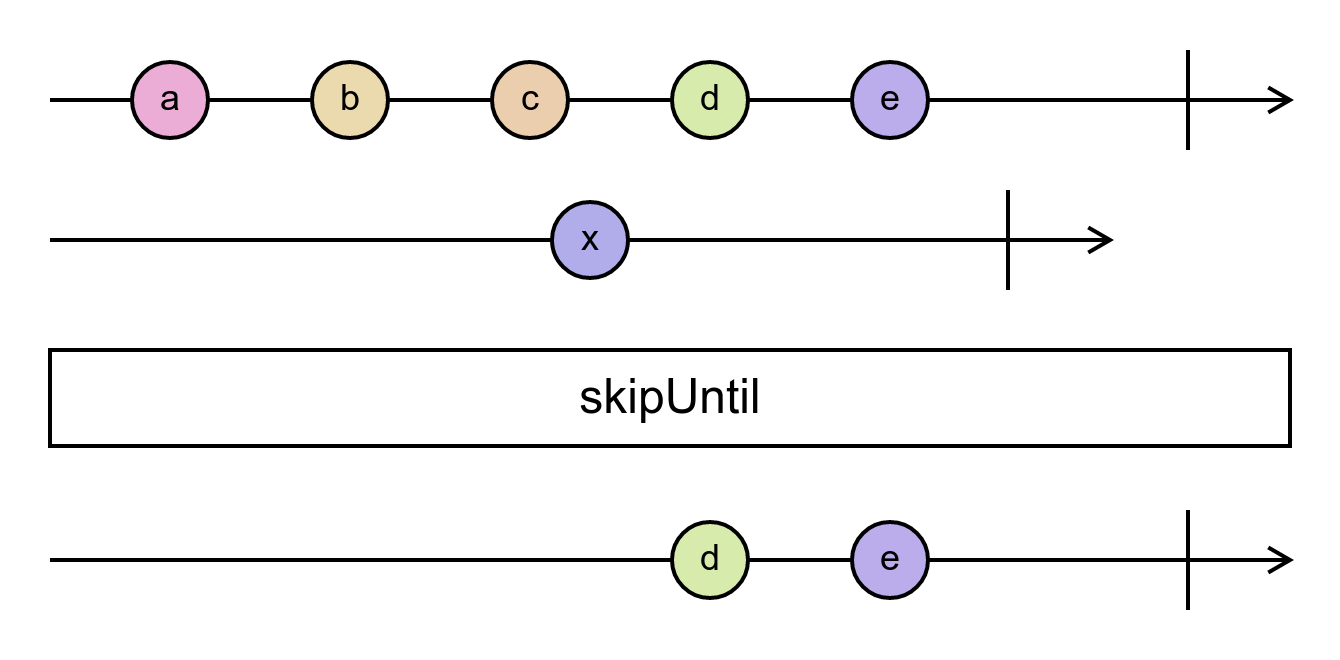
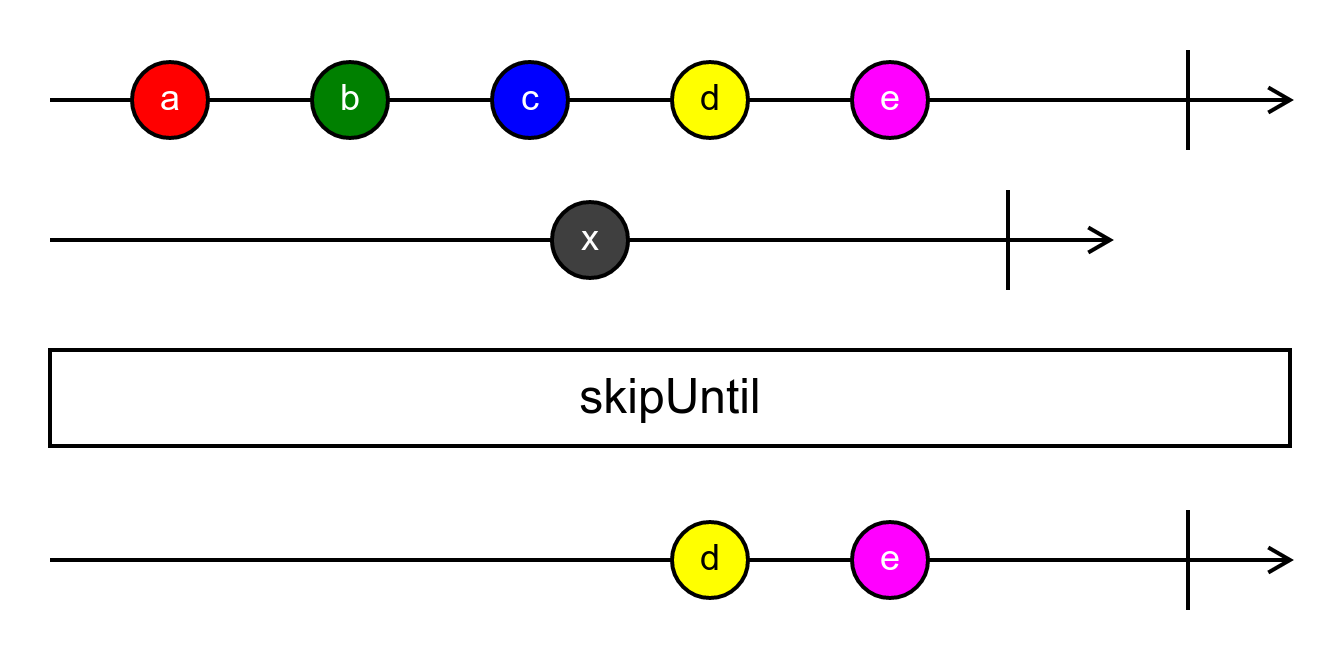
Support notification-level styling

diff --git a/packages/swirly-parser/src/parsers/stream.ts b/packages/swirly-parser/src/parsers/stream.ts
@@ -1,4 +1,12 @@
-import { parseMarbles } from '@swirly/parser-rxjs'
+import { parseMarbles, TestMessage } from '@swirly/parser-rxjs'
+import {
+  CompletionMessageSpecification,
+  ErrorMessageSpecification,
+  MessageSpecification,
+  ScalarNextMessageSpecification,
+  ScalarNextMessageStyles,
+  StreamNextMessageSpecification
+} from '@swirly/types'
 
 import { createStreamSpecification } from '../spec/stream'
 import { kIsGhost } from '../symbols'
@@ -49,12 +57,60 @@ const buildLocalValues = (
   return localValues
 }
 
+const testMessageToMessageSpecification = ({
+  frame,
+  notification
+}: TestMessage): MessageSpecification => {
+  const { kind, value } = notification as any
+  switch (true) {
+    case kind === 'C': // CompleteNotification
+      return {
+        frame,
+        notification: { kind }
+      } as CompletionMessageSpecification
+    case kind === 'E': // ErrorNotification
+      return { frame, notification: { kind } } as ErrorMessageSpecification
+    case Array.isArray(value): // NextNotification, stream
+      return {
+        frame,
+        notification: {
+          kind: 'N',
+          value: createStreamSpecification(value),
+          isGhost: !!value[kIsGhost]
+        }
+      } as StreamNextMessageSpecification
+    default: // NextNotification, scalar
+      return {
+        frame,
+        notification: {
+          kind: 'N',
+          value: value != null ? String(value) : ''
+        }
+      } as ScalarNextMessageSpecification
+  }
+}
+
+const testMessagesToMessageSpecifications = (
+  testMessages: TestMessage[],
+  frame: number,
+  messageStyles: Record<string, ScalarNextMessageStyles>
+): MessageSpecification[] => {
+  const messageSpecs = testMessages.map(testMessageToMessageSpecification)
+  for (const message of messageSpecs) {
+    message.frame -= frame
+    if (message.notification.kind === 'N') {
+      message.styles =
+        messageStyles[
+          (message as ScalarNextMessageSpecification).notification.value
+        ]
+    }
+  }
+  return messageSpecs
+}
+
 const match = () => true
 
-const run = (
-  lines: readonly string[],
-  { content, allValues }: ParserContext
-) => {
+const run = (lines: readonly string[], ctx: ParserContext) => {
   const [nameAndMarbles, ...configLines] = lines
 
   const [name, marbles] = parseNameAndMarbles(nameAndMarbles)
@@ -67,19 +123,33 @@ const run = (
   const localValues = buildLocalValues(
     marbles,
     config.values,
-    allValues,
+    ctx.allValues,
     ghostNames
   )
-  const messages = parseMarbles(marbles, localValues)
+
+  const testMessages = parseMarbles(marbles, localValues)
+  // RxJS TestScheduler.frameTimeFactor is 10, so undo that
+  for (const message of testMessages) {
+    message.frame = message.frame / 10
+  }
 
   const match = reLeadingWhitespace.exec(marbles)
   const frame = match != null ? match[0].length : 0
 
   if (name != null) {
-    allValues[name] = messages
+    ctx.allValues[name] = testMessages
   } else {
-    const spec = createStreamSpecification(messages, config.title, frame)
-    content.push(spec)
+    const messageSpecs = testMessagesToMessageSpecifications(
+      testMessages,
+      frame,
+      ctx.messageStyles
+    )
+    const streamSpec = createStreamSpecification(
+      messageSpecs,
+      config.title,
+      frame
+    )
+    ctx.content.push(streamSpec)
   }
 }
 

diff --git a/packages/swirly-parser/src/spec/stream.ts b/packages/swirly-parser/src/spec/stream.ts
@@ -1,15 +1,4 @@
-import { TestMessage } from '@swirly/parser-rxjs'
-import {
-  CompletionMessageSpecification,
-  ErrorMessageSpecification,
-  MessageSpecification,
-  ScalarNextMessageSpecification,
-  StreamNextMessageSpecification,
-  StreamSpecification
-} from '@swirly/types'
-
-import { SCALE } from '../constants'
-import { kIsGhost } from '../symbols'
+import { MessageSpecification, StreamSpecification } from '@swirly/types'
 
 const getDuration = (messages: readonly MessageSpecification[]): number => {
   let maxFrame = 0
@@ -30,54 +19,14 @@ const getDuration = (messages: readonly MessageSpecification[]): number => {
   return maxFrame
 }
 
-const testMessageToMessageSpecification = ({
-  frame: unscaledFrame,
-  notification
-}: TestMessage): MessageSpecification => {
-  const frame = unscaledFrame * SCALE
-  const { kind, value } = notification as any
-  switch (true) {
-    case kind === 'C': // CompleteNotification
-      return {
-        frame,
-        notification: { kind }
-      } as CompletionMessageSpecification
-    case kind === 'E': // ErrorNotification
-      return { frame, notification: { kind } } as ErrorMessageSpecification
-    case Array.isArray(value): // NextNotification, stream
-      return {
-        frame,
-        notification: {
-          kind: 'N',
-          value: createStreamSpecification(value),
-          isGhost: !!value[kIsGhost]
-        }
-      } as StreamNextMessageSpecification
-    default: // NextNotification, scalar
-      return {
-        frame,
-        notification: {
-          kind: 'N',
-          value: value != null ? String(value) : ''
-        }
-      } as ScalarNextMessageSpecification
-  }
-}
-
 export const createStreamSpecification = (
-  messagesIn: readonly TestMessage[],
+  messages: MessageSpecification[],
   title: string | null = null,
   frame: number = 0
-): StreamSpecification => {
-  const messagesOut = messagesIn.map(testMessageToMessageSpecification)
-  for (const message of messagesOut) {
-    message.frame -= frame
-  }
-  return {
-    kind: 'S',
-    title,
-    frame,
-    duration: getDuration(messagesOut),
-    messages: messagesOut
-  }
-}
+): StreamSpecification => ({
+  kind: 'S',
+  title,
+  frame,
+  duration: getDuration(messages),
+  messages
+})

diff --git a/packages/swirly-parser/src/parsers/operator.ts b/packages/swirly-parser/src/parsers/operator.ts
@@ -1,12 +1,11 @@
 import { OperatorTitleSegment } from '@swirly/types'
 
-import { OPERATOR_PREFIX } from '../constants'
 import { createOperatorSpecification } from '../spec/operator'
 import { Parser, ParserContext } from '../types'
 
 const reInnerStream = /`(.+?)`/g
 
-const match = (line: string): boolean => line.startsWith(OPERATOR_PREFIX)
+const match = (line: string): boolean => line.startsWith('>')
 
 const parseTitle = (text: string): OperatorTitleSegment[] => {
   const segments: OperatorTitleSegment[] = []
@@ -32,11 +31,11 @@ const parseTitle = (text: string): OperatorTitleSegment[] => {
   return segments
 }
 
-const run = (lines: readonly string[], { content }: ParserContext) => {
-  const titleStr = lines[0].substring(OPERATOR_PREFIX.length).trim()
+const run = (lines: readonly string[], ctx: ParserContext) => {
+  const titleStr = lines[0].substring(1).trim()
   const titleSegments = parseTitle(titleStr)
   const spec = createOperatorSpecification(titleSegments)
-  content.push(spec)
+  ctx.content.push(spec)
 }
 
 export const operatorParser: Parser = {

diff --git a/packages/swirly-parser/src/index.ts b/packages/swirly-parser/src/index.ts
@@ -11,7 +11,8 @@ import { byBlock } from './util/by-block'
 const parseMarbleDiagramSpecification = (str: string): DiagramSpecification => {
   const ctx: ParserContext = {
     content: [],
-    styles: {},
+    diagramStyles: {},
+    messageStyles: {},
     allValues: {}
   }
 
@@ -20,7 +21,7 @@ const parseMarbleDiagramSpecification = (str: string): DiagramSpecification => {
     parser.run(lines, ctx)
   }
 
-  return createDiagramSpecification(ctx.content, ctx.styles)
+  return createDiagramSpecification(ctx.content, ctx.diagramStyles)
 }
 
 export {

diff --git a/packages/swirly-parser/src/parsers/message-styles.ts b/packages/swirly-parser/src/parsers/message-styles.ts
@@ -1,0 +1,17 @@
+import { Parser, ParserContext } from '../types'
+import { parseConfig } from './config'
+
+const reHeader = /^\[styles\.(.)\]$/
+
+const match = (line: string): boolean => reHeader.test(line)
+
+const run = (lines: readonly string[], ctx: ParserContext) => {
+  const [headerLine, ...configLines] = lines
+  const [, message] = reHeader.exec(headerLine)!
+  ctx.messageStyles[message] = parseConfig(configLines, false)
+}
+
+export const messageStylesParser: Parser = {
+  match,
+  run
+}

diff --git a/packages/swirly-renderer/src/operator.ts b/packages/swirly-renderer/src/operator.ts
@@ -39,7 +39,12 @@ const createRootDiv = (document: Document, styles: Record<string, any>) => {
 
 const renderStream = (text: string, ctx: RendererContext) => {
   const content: DiagramContent = []
-  streamParser.run([text], { content, styles: {}, allValues: {} })
+  streamParser.run([text], {
+    content,
+    diagramStyles: {},
+    messageStyles: {},
+    allValues: {}
+  })
   const [spec] = content as StreamSpecification[]
   const {
     element: $group,

diff --git a/packages/swirly-parser/src/types.ts b/packages/swirly-parser/src/types.ts
@@ -1,9 +1,14 @@
 import { TestMessage } from '@swirly/parser-rxjs'
-import { DiagramContent, DiagramStyles } from '@swirly/types'
+import {
+  DiagramContent,
+  DiagramStyles,
+  ScalarNextMessageStyles
+} from '@swirly/types'
 
 export type ParserContext = {
   content: DiagramContent
-  styles: DiagramStyles
+  diagramStyles: DiagramStyles
+  messageStyles: Record<string, ScalarNextMessageStyles>
   allValues: Record<string, TestMessage[]>
 }
 

diff --git a/packages/swirly-parser/src/parsers/index.ts b/packages/swirly-parser/src/parsers/index.ts
@@ -1,10 +1,12 @@
 import { Parser } from '../types'
+import { diagramStylesParser } from './diagram-styles'
+import { messageStylesParser } from './message-styles'
 import { operatorParser } from './operator'
 import { streamParser } from './stream'
-import { stylesParser } from './styles'
 
 export const parsers: readonly Parser[] = [
-  stylesParser,
+  diagramStylesParser,
+  messageStylesParser,
   operatorParser,
   streamParser
 ]

diff --git a/packages/swirly-parser/src/parsers/diagram-styles.ts b/packages/swirly-parser/src/parsers/diagram-styles.ts
@@ -1,0 +1,14 @@
+import { Parser, ParserContext } from '../types'
+import { parseConfig } from './config'
+
+const match = (line: string): boolean => line === '[styles]'
+
+const run = (lines: readonly string[], ctx: ParserContext) => {
+  const extraStyles = parseConfig(lines.slice(1), false)
+  Object.assign(ctx.diagramStyles, extraStyles)
+}
+
+export const diagramStylesParser: Parser = {
+  match,
+  run
+}
